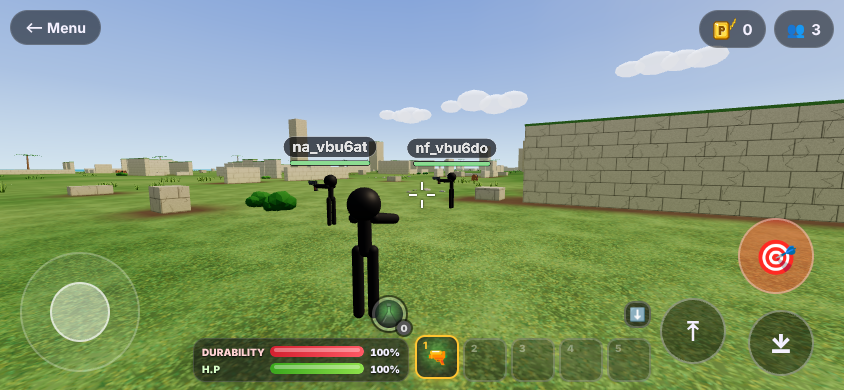
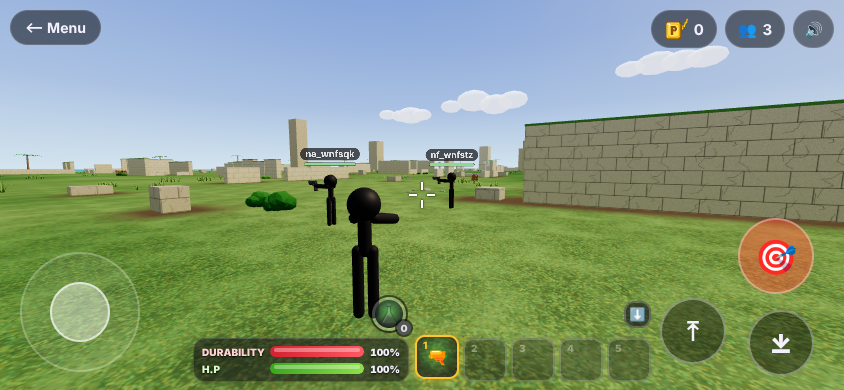
Smaller name bars (#56): metersPerPx 0.009 -> 0.0056, maxScale 6 -> 3.5
Names are about 62% of the #54 size up close and grow less far away
(still readable on a phone). Damage numbers still start just above the bar.
New screenshots: name-bar.png, headshot.png.

Claude-Session: https://claude.ai/code/session_01QgSuHVNhwYzMk86MH96zJY

Changed region(s): [[0.7701, 0.0, 0.9858, 0.1231], [0.3389, 0.3385, 0.5853, 0.4308]]

diff --git a/packages/hud-model/test/namebar.test.js b/packages/hud-model/test/namebar.test.js
@@ -76,3 +76,17 @@ test('damage numbers start above the name bar', () => {
     assert.ok(damageStartHeight(d) < fit.top + 0.5);
   }
 });
+
+test('#56: the bar is smaller than in #54 (about 62% up close) and grows less with distance, but stays readable', () => {
+  const h = NAME_BAR.pillH + NAME_BAR.gap + NAME_BAR.hpH;
+  const old = { metersPerPx: 0.009, maxScale: 6 }; // the #54 sizes
+  const close = nameBarFit(2).worldHeight / (h * old.metersPerPx);
+  assert.ok(close >= 0.58 && close <= 0.66, `up close: ${close.toFixed(2)} of the old size`);
+  assert.ok(NAME_BAR.maxScale <= 4, 'grows at most ~3.5x far away');
+  // on screen (world height / distance) far names are still at least ~1/4 of the near on-screen size
+  const near = nameBarFit(NAME_BAR.nearDistance).worldHeight / NAME_BAR.nearDistance;
+  const far = nameBarFit(NAME_BAR.hideDistance).worldHeight / NAME_BAR.hideDistance;
+  assert.ok(far < near && far > near / 5, 'far names are smaller on screen but not tiny');
+  // damage numbers still start just over the smaller bar
+  for (const d of [1, 10, 40]) assert.ok(Math.abs(damageStartHeight(d) - nameBarFit(d).top - 0.12) < 1e-9);
+});

diff --git a/packages/stickman-3d/src/namebar.js b/packages/stickman-3d/src/namebar.js
@@ -59,11 +59,11 @@ export function drawNameBar(g, v) {
 /**
  * A name bar: { object (THREE.Sprite, its bottom sits at its position), draw(view), fit({ visible, scale, y }),
  * measure(text, font), draws, view, dispose() }. Add `object` to the player's root (it faces the camera by itself).
- * opts.metersPerPx: world size of one CSS pixel at scale 1 (default 0.009). opts.createCanvas: make a canvas
+ * opts.metersPerPx: world size of one CSS pixel at scale 1 (default 0.0056, like NAME_BAR.metersPerPx). opts.createCanvas: make a canvas
  * (default document.createElement('canvas'); none in Node: then it draws nothing).
  * A wall between you and the player hides it for free (depth test on, no ray casts).
  */
-export function createNameBar({ metersPerPx = 0.009, createCanvas = defaultCanvas, renderOrder = 5 } = {}) {
+export function createNameBar({ metersPerPx = 0.0056, createCanvas = defaultCanvas, renderOrder = 5 } = {}) {
   const canvas = createCanvas();
   const g = canvas?.getContext?.('2d') ?? null;
   const material = new THREE.SpriteMaterial({ transparent: true, depthWrite: false, depthTest: true });

diff --git a/packages/hud-model/src/namebar.js b/packages/hud-model/src/namebar.js
@@ -19,10 +19,10 @@ export const NAME_BAR = Object.freeze({
   hpInset: 10,        // the H.P bar is this much narrower than the pill on each side
   border: 1.5,        // thin light outline so the dark pill shows on dark ground too
   pixelRatio: 2,      // draw at 2x for retina screens
-  metersPerPx: 0.009, // world size of one CSS pixel when close (the 44 px tall bar is 0.4 m)
+  metersPerPx: 0.0056, // world size of one CSS pixel when close (the 44 px tall bar is about 0.25 m; #56: 62% of the #54 size)
   y: 2.1,             // the bottom of the bar, meters above the player's feet (over the head)
   nearDistance: 4,    // closer than this the bar keeps its world size (it gets a bit bigger as you walk up, not huge)
-  maxScale: 6,        // farther away it grows with distance (stays readable) up to this many times
+  maxScale: 3.5,      // farther away it grows with distance (stays readable) up to this many times (#56: was 6, far names stay small)
   hideDistance: 60,   // farther than this it is hidden
 });
 
